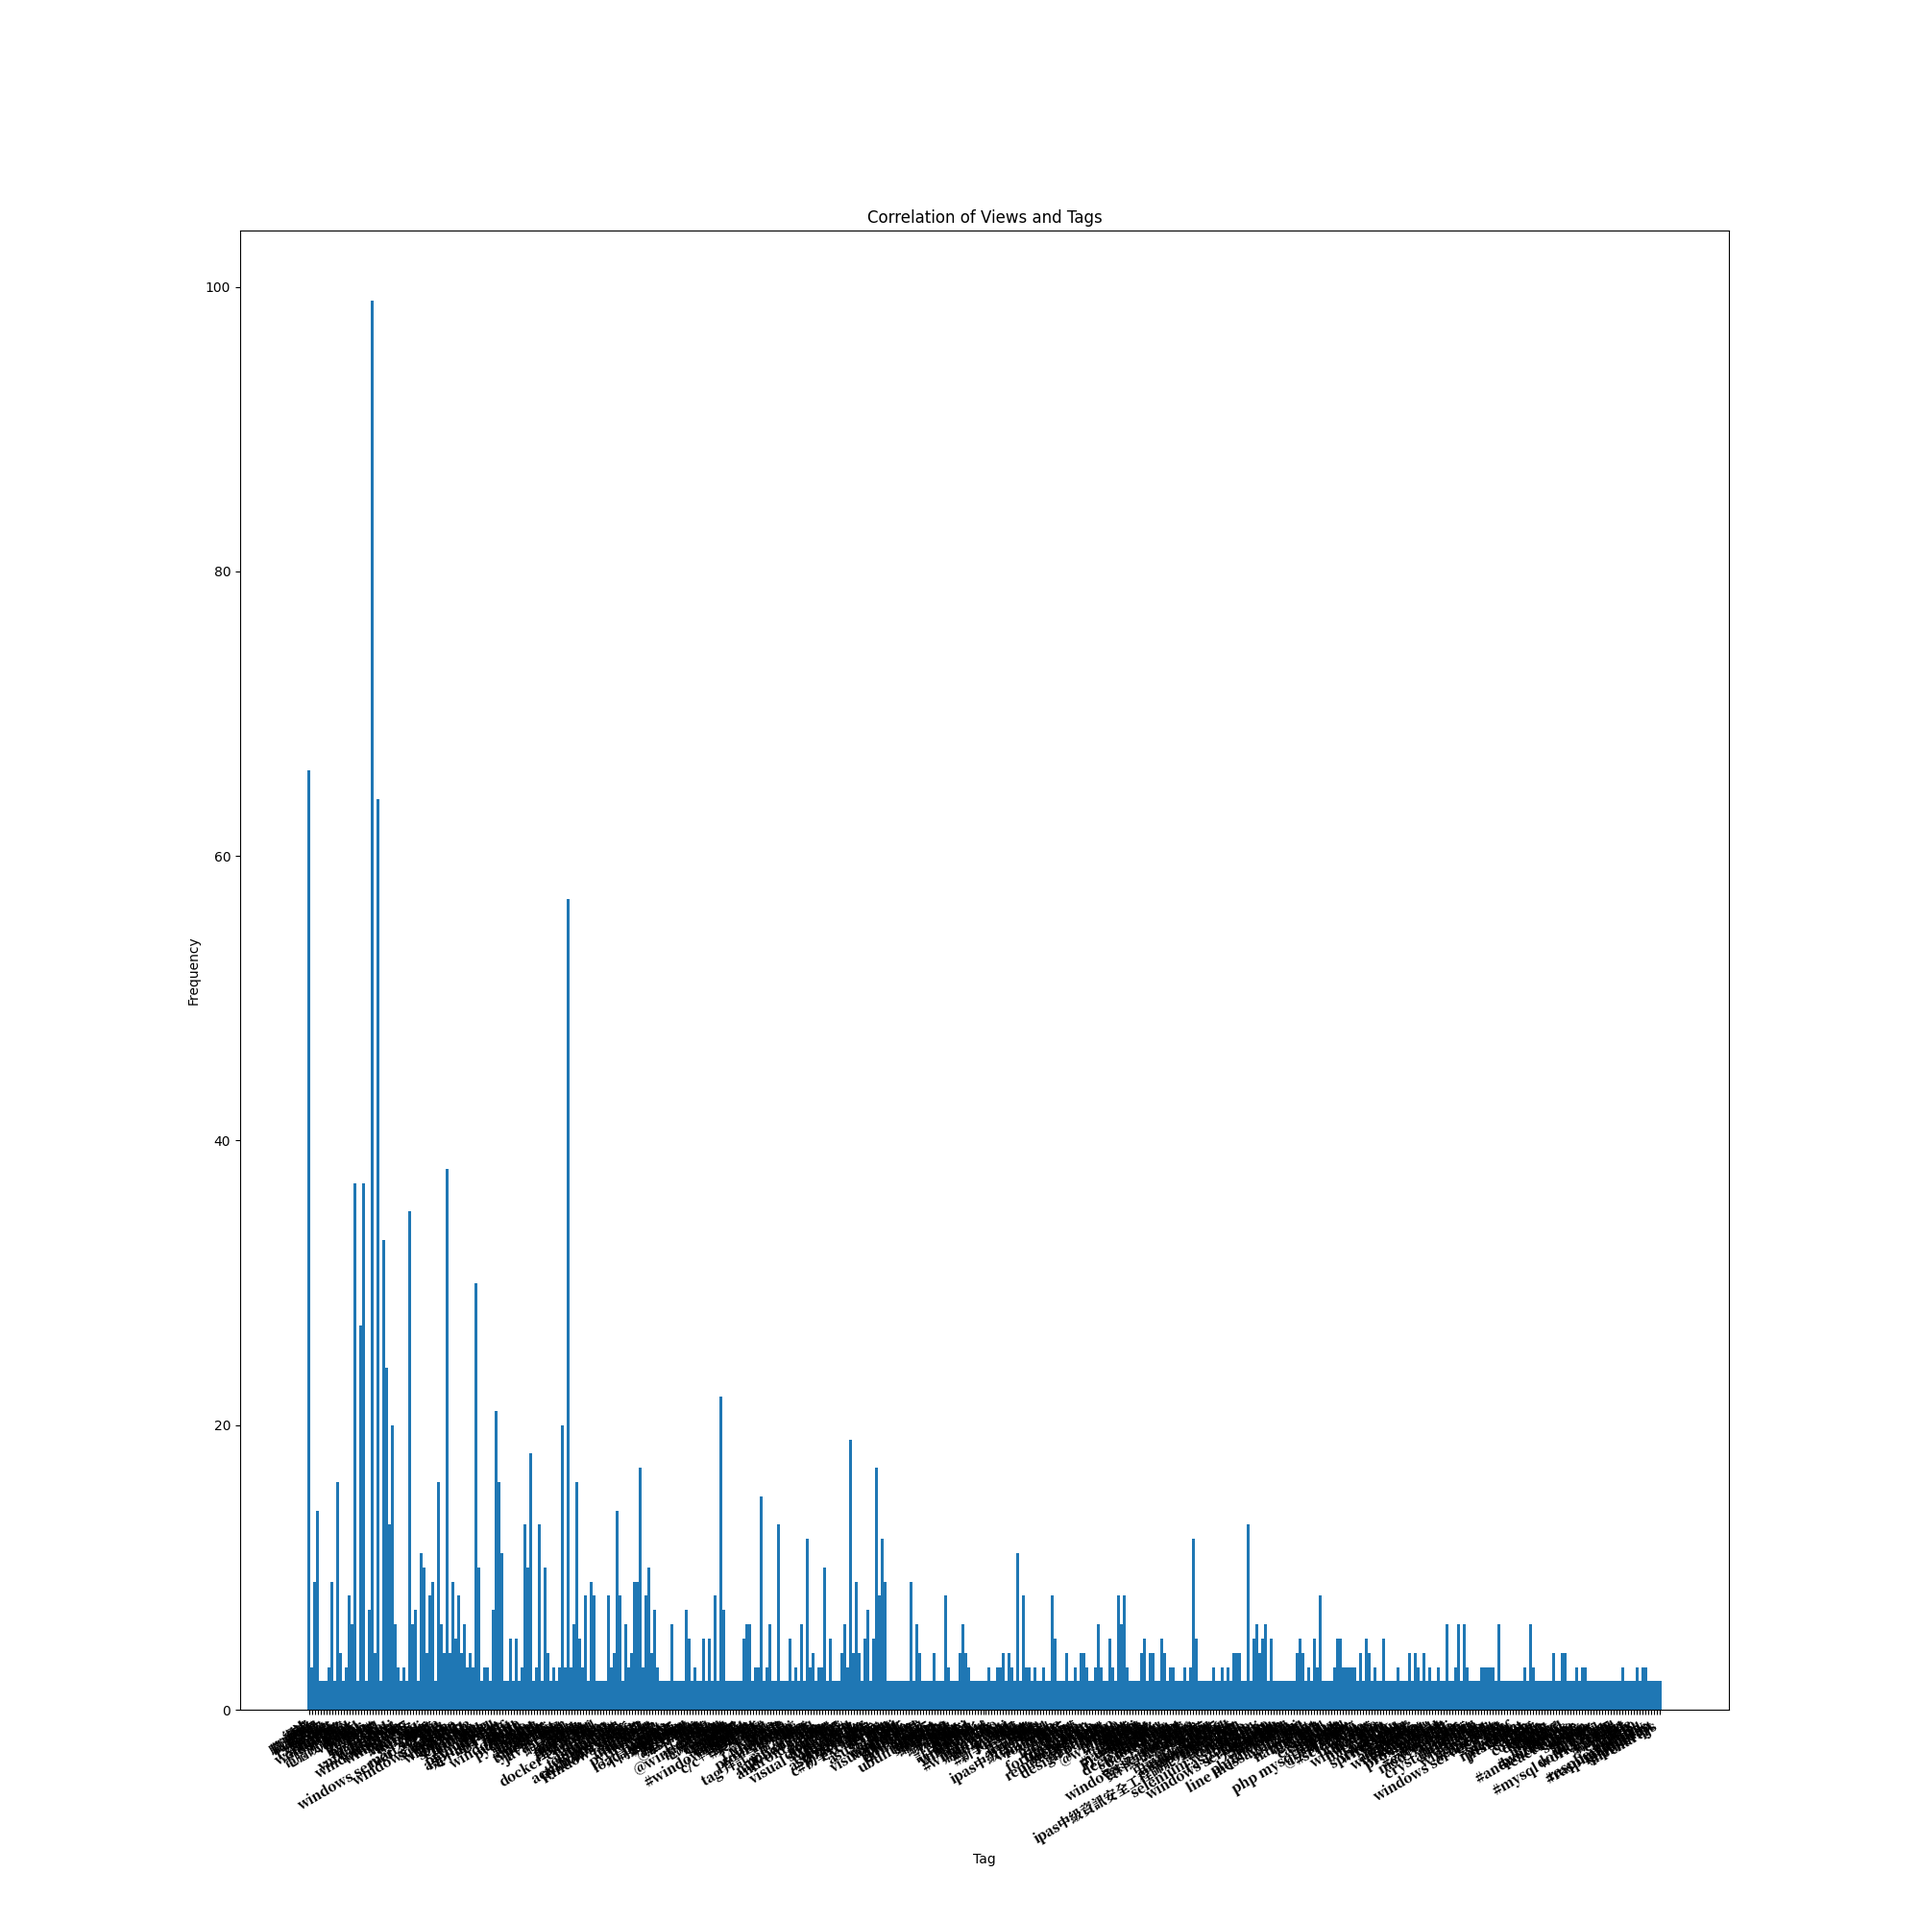
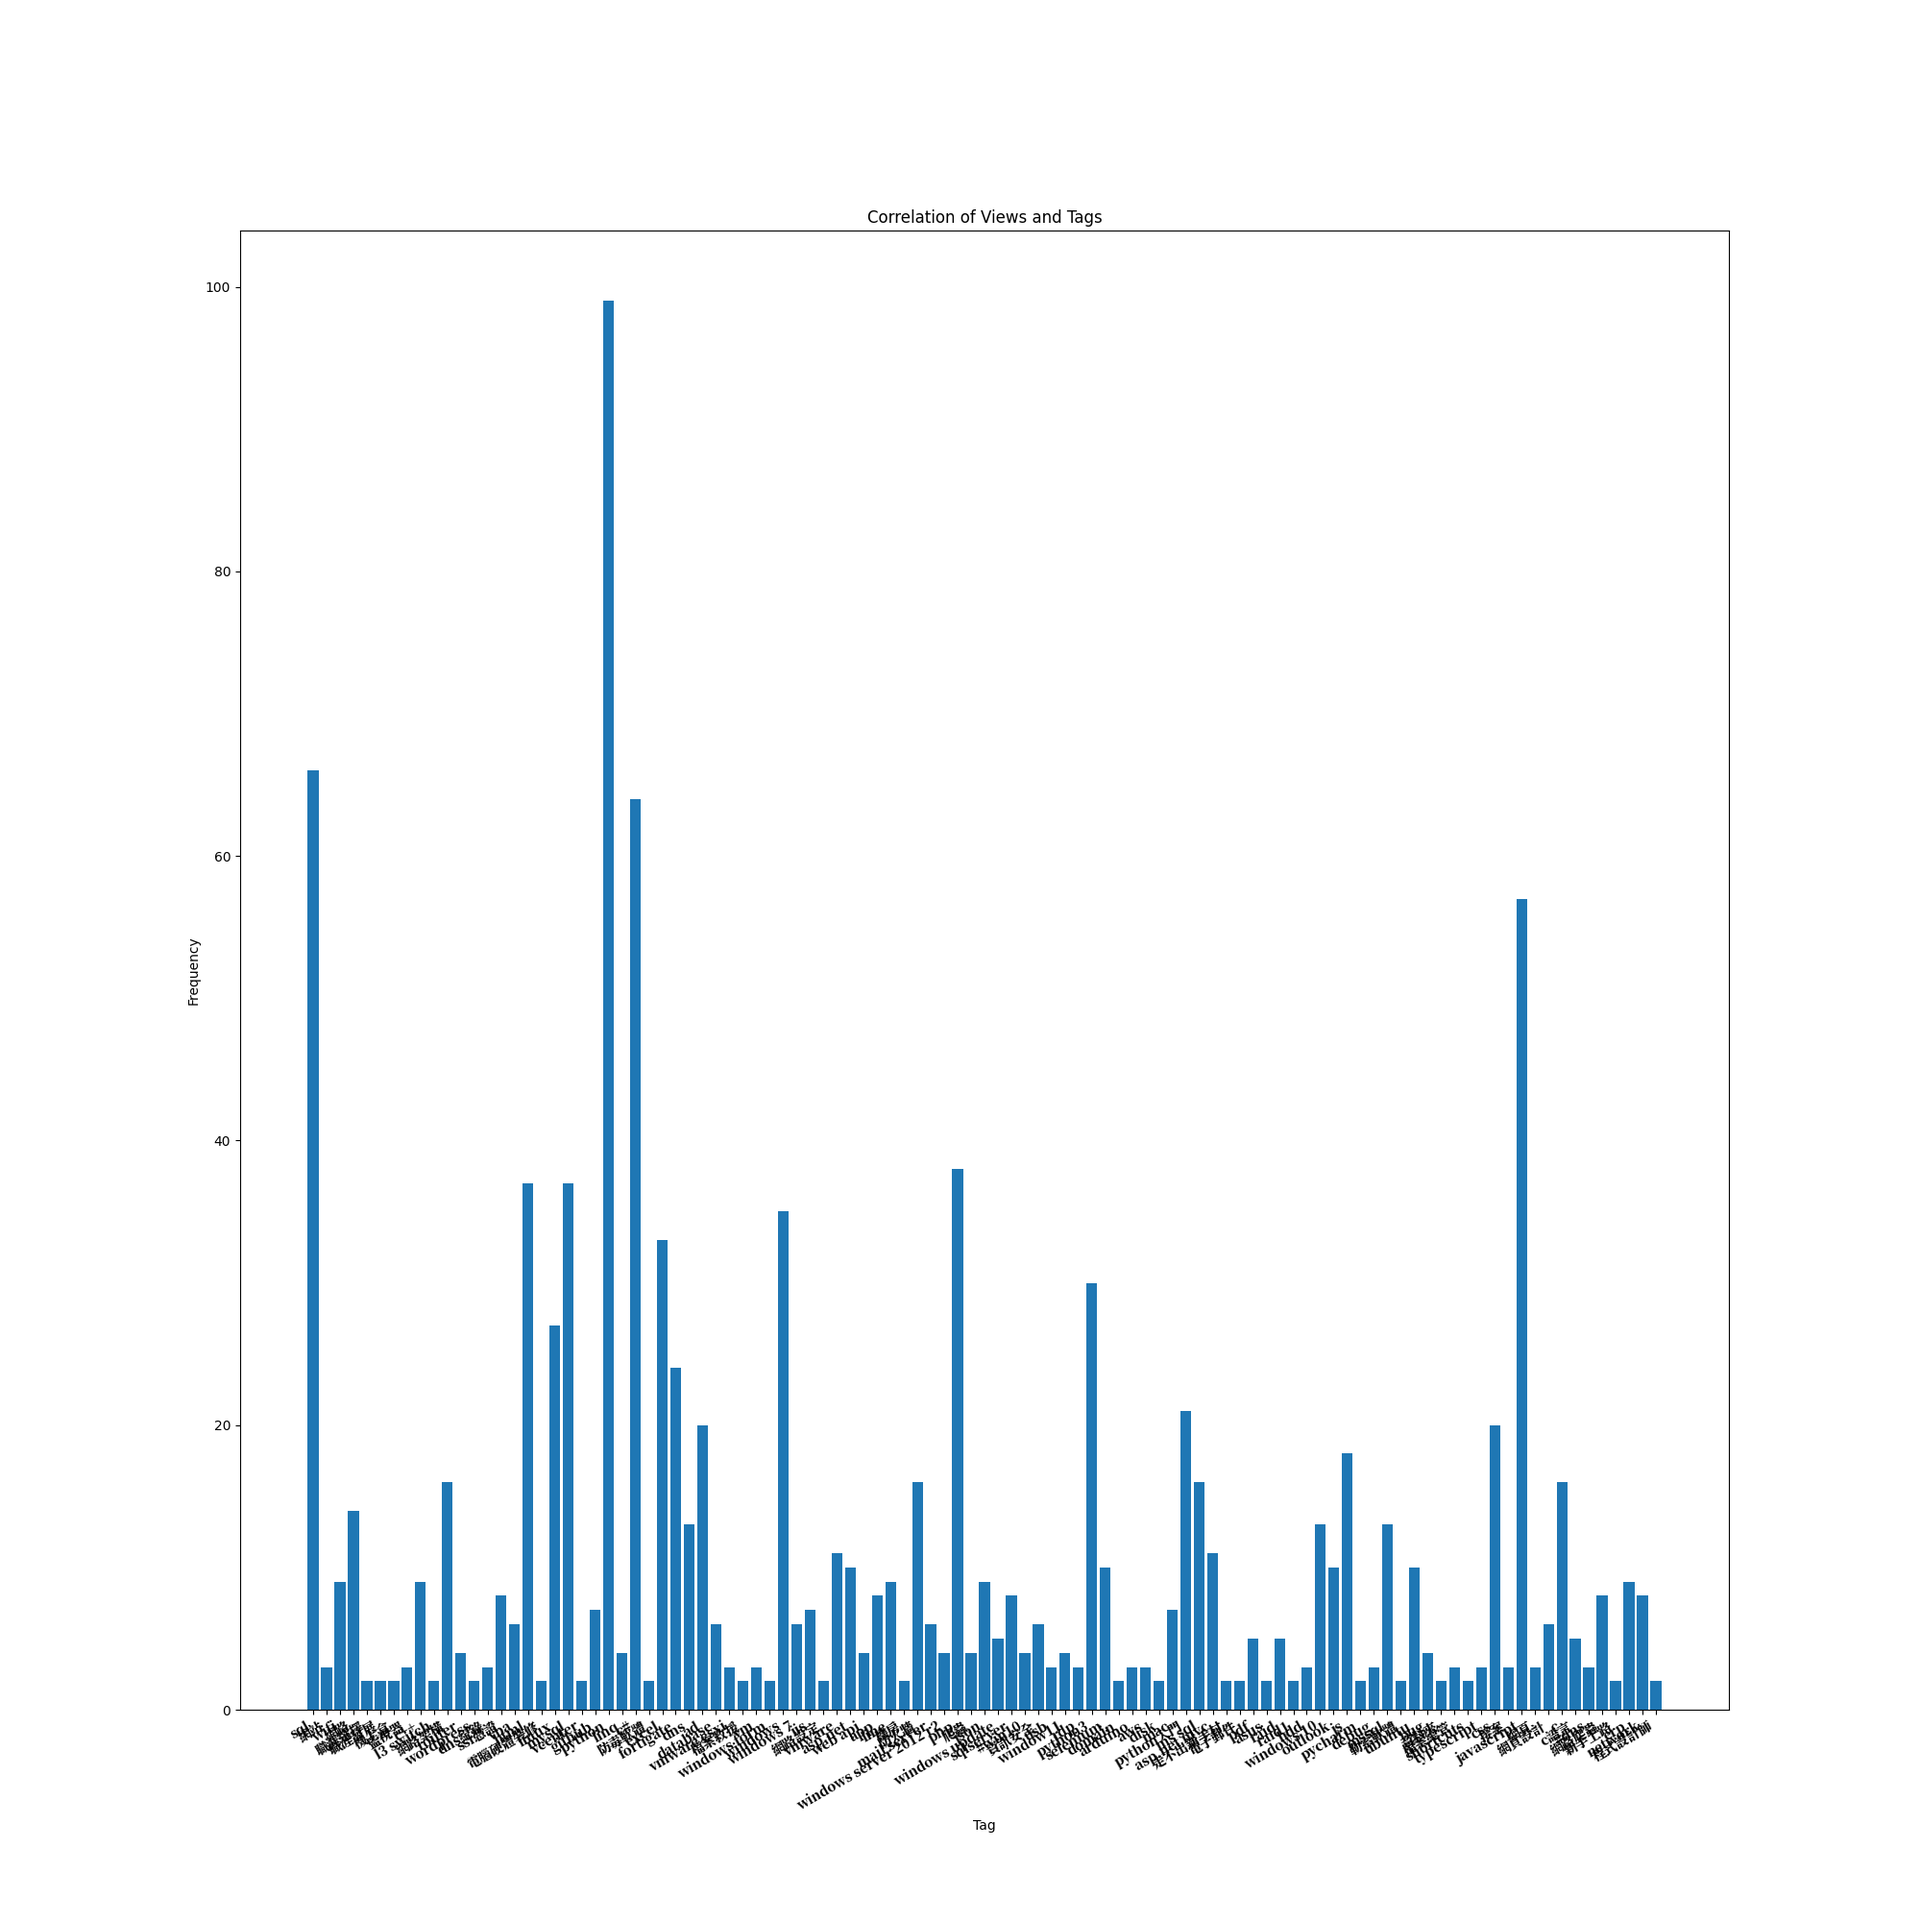
Add File

Changed region(s): [[0.124, 0.155, 0.868, 0.961]]

diff --git a/analysis.py b/analysis.py
@@ -57,6 +57,8 @@ for i in dic_analysis:
 li_key = []
 li_value = []
 for i in dic_analysis:
+    if count>100:
+        break
     if dic_analysis[i]>mean:
         li_key.append(i)
         li_value.append(dic_analysis[i])
@@ -79,5 +81,3 @@ plt.bar(li_key,li_value)
 plt.xticks(x,li_key,fontproperties=myfont)
 plt.savefig("Correlation of Views and Tags Chart")
 plt.show()
-
-print(count)
